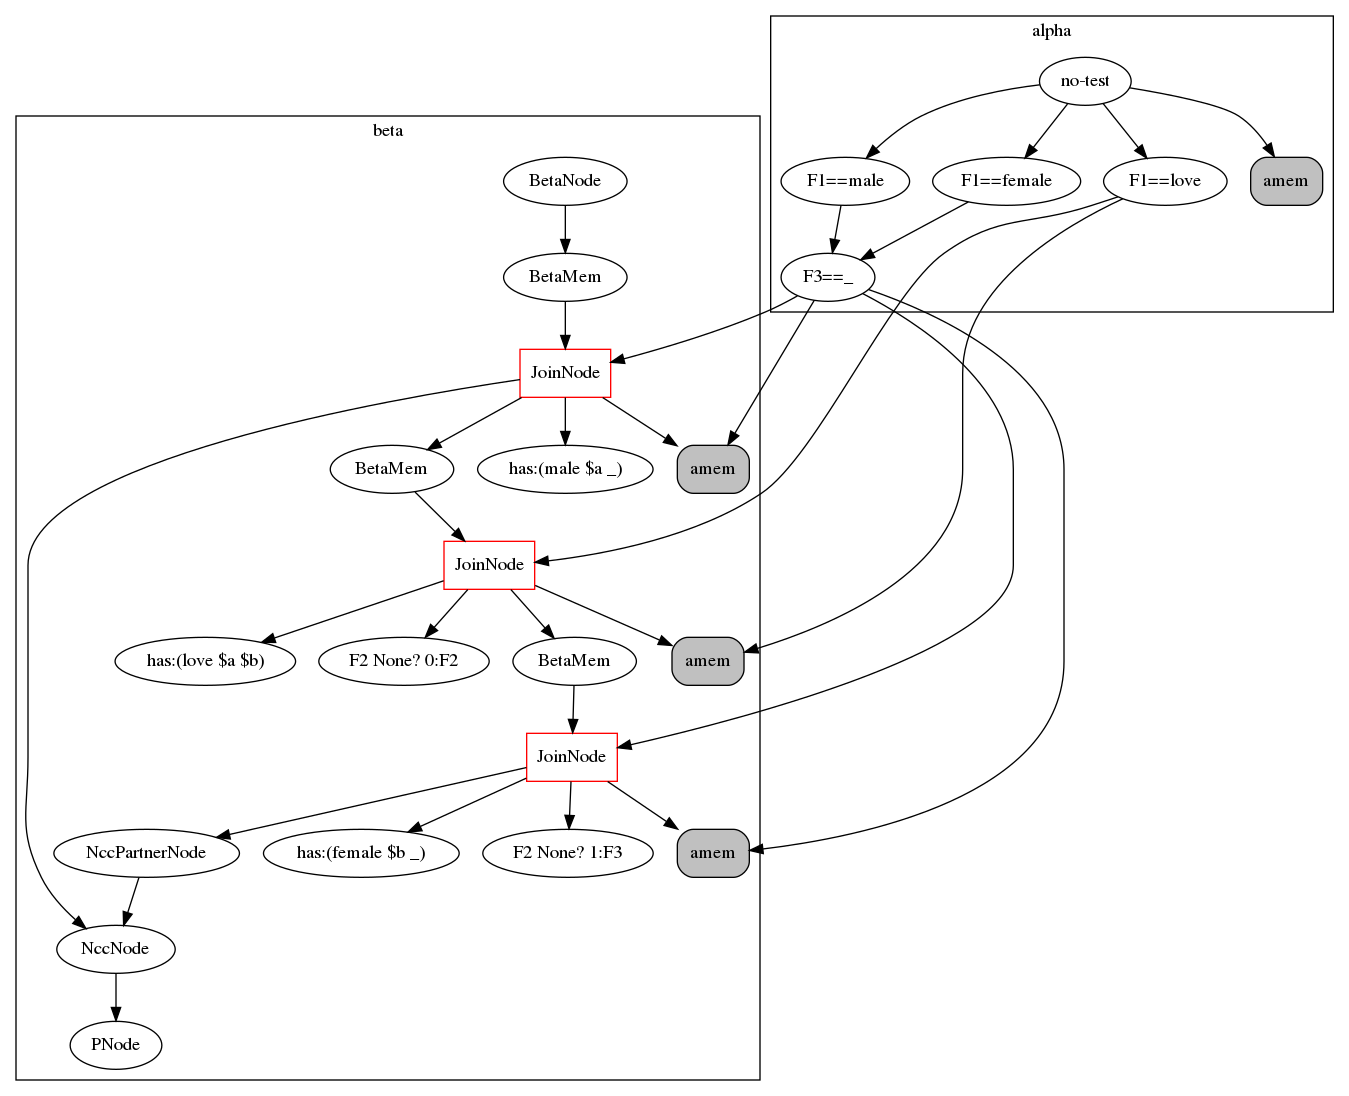
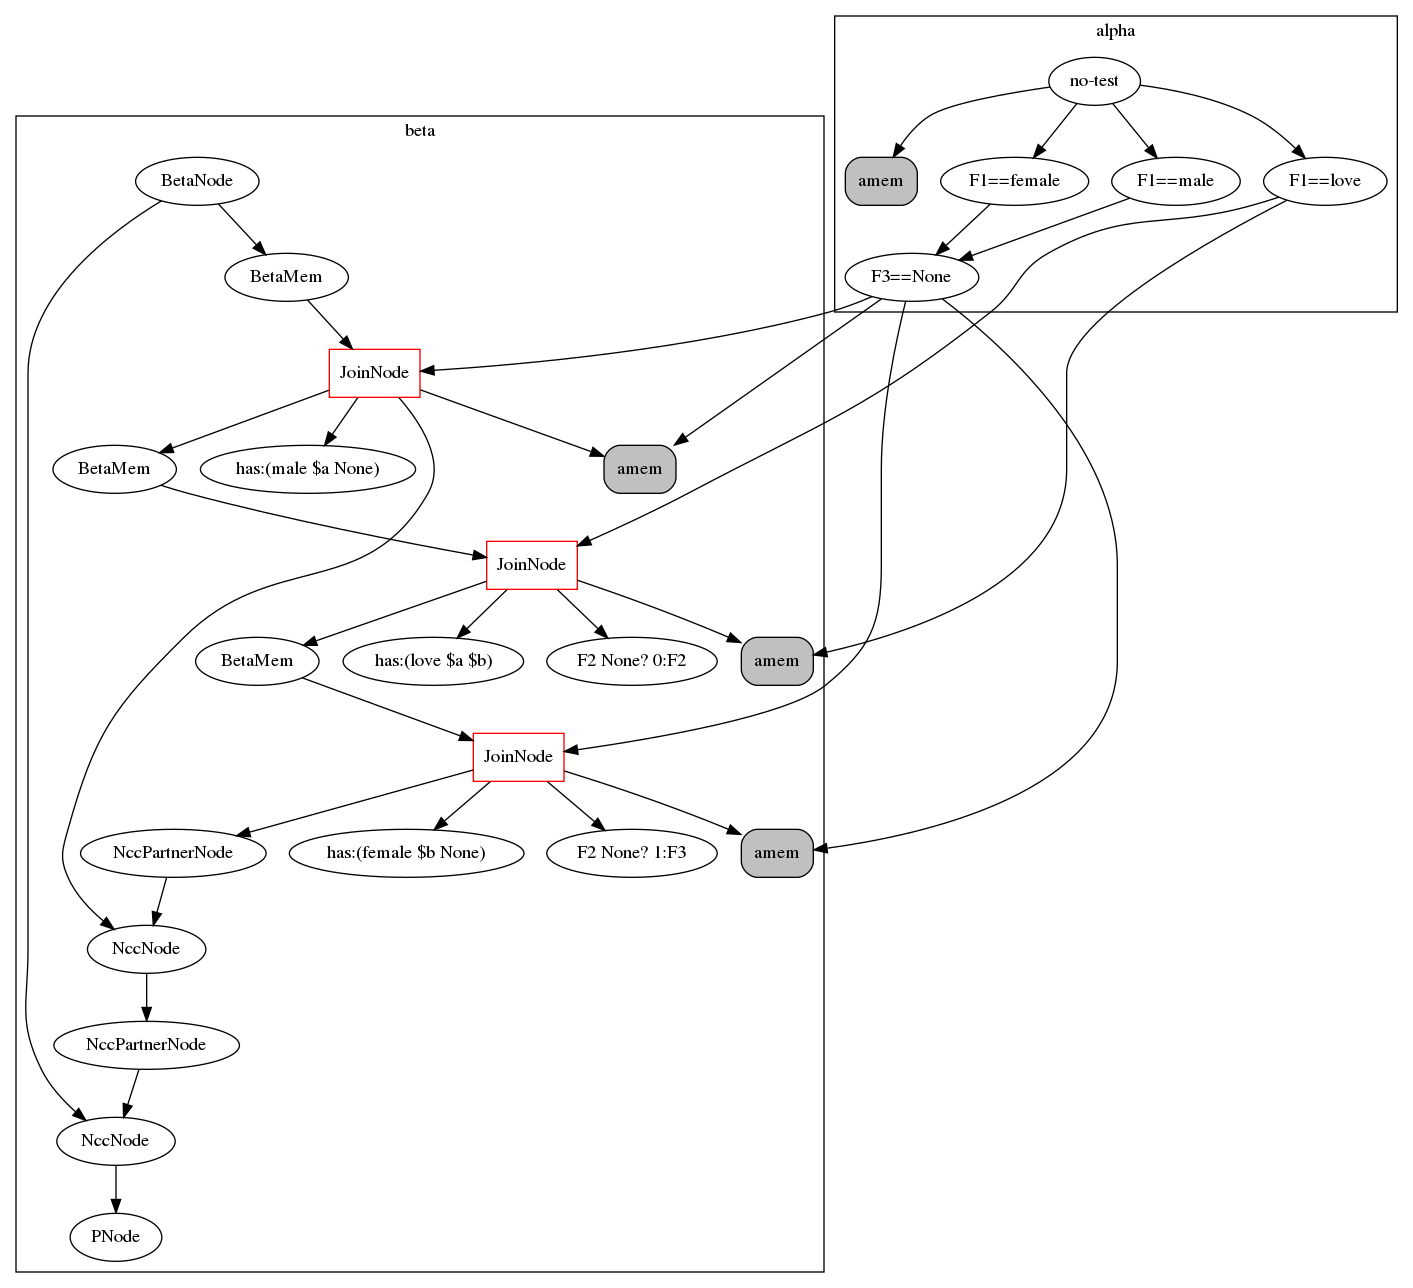
fields can be None

diff --git a/genifer.py b/genifer.py
@@ -1,4 +1,4 @@
-#!/usr/bin/python2.7
+#!/usr/bin/python2.7grep
 # -*- coding: utf-8 -*-
 import sys
 import os
@@ -9,11 +9,11 @@ from rete.network import Network
 def init_network():
 	net = Network()
 
-	c1 = Has('male', '$a', '_')
+	c1 = Has('male', '$a')
 	c2 = Has('love', '$a', '$b')
-	c3 = Has('female', '$b', '_')
-	# net.add_production(Rule(Ncc(c1, Ncc(c2, c3))))
-	net.add_production(Rule(c1, Ncc(c2, c3)))
+	c3 = Has('female', '$b')
+	net.add_production(Rule(Ncc(c1, Ncc(c2, c3))))
+	# net.add_production(Rule(c1, Ncc(c2, c3)))
 	# net.add_production(Rule(c2, c3))
 
 	# c01 = Has('O', '$x', '$x')
@@ -24,14 +24,14 @@ def init_network():
 
 def add_wmes(net):
 	wmes = [
-		WME('female', 'Mary', '_'),
-		#WME('female', 'Ann', '_'),
-		WME('love', 'John', 'Mary'),
+		WME('female', 'Mary'),
+		WME('female', 'Ann'),
+		WME('love', 'John', 'Pete'),
 		#WME('love', 'John', 'Ann'),
-		WME('love', 'Pete', 'Mary'),
+		WME('love', 'Pete', 'Ann'),
 		#WME('love', 'Pete', 'Ann'),
-		WME('male', 'John', '_'),
-		WME('male', 'Pete', '_'),
+		WME('male', 'John'),
+		WME('male', 'Pete'),
 		# WME('X', '0', '2'),
 		# WME('X', '1', '1'),
 		# WME('X', '2', '1'),

diff --git a/rete/common.py b/rete/common.py
@@ -115,7 +115,7 @@ class Bind:
 
 class WME:
 
-	def __init__(self, F1, F2, F3):
+	def __init__(self, F1=None, F2=None, F3=None):
 		self.F1 = F1
 		self.F2 = F2
 		self.F3 = F3
@@ -224,6 +224,5 @@ class Token:
 				for child in token.node.ncc_node.children:
 					child.left_activation(token.owner, None)
 
-
 def is_var(v):
-	return v.startswith('$')
+	return v.startswith('$') if v else False

diff --git a/rete/alpha.py b/rete/alpha.py
@@ -29,7 +29,7 @@ class ConstantTestNode:
 		if self.field_to_test != 'no-test':
 			v = getattr(wme, self.field_to_test)
 			v2 = self.thing_the_field_must_equal
-			if v2[0] == 'F':
+			if v2 and v2[0] == 'F':
 				v2 = getattr(wme, v2)
 			# print "%s =? %s" % (v, v2)
 			if v != v2:
